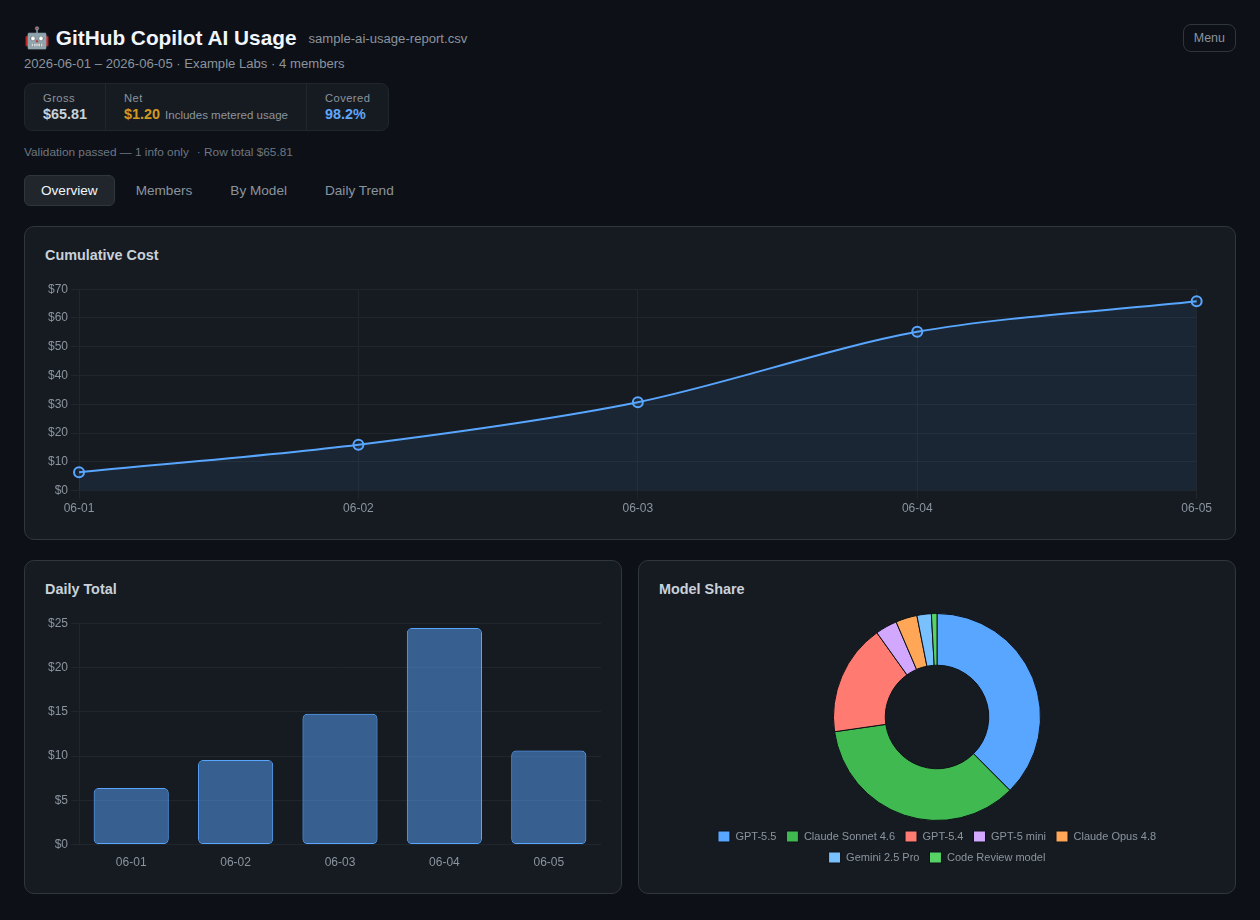
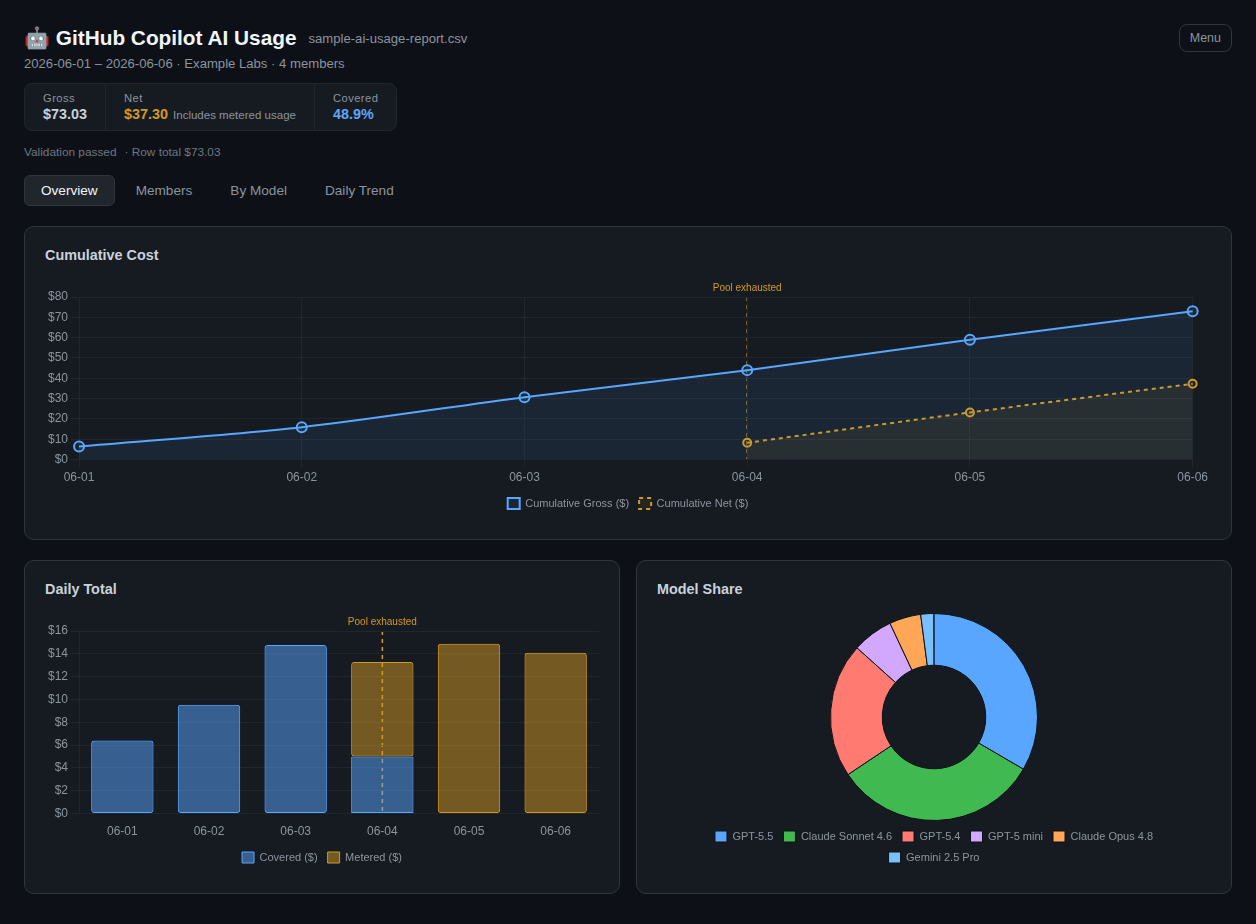
Update sample CSV with metered billing data and refresh README screenshot

diff --git a/tests/e2e/viewer.spec.js b/tests/e2e/viewer.spec.js
@@ -51,15 +51,9 @@ test('loads the sample CSV with actual consumption as the default view', async (
   await loadSampleViaUpload(page);
 
   await expect(page.locator('#subtitle')).toContainText('Example Labs');
-  await expect(page.locator('#costBadges .cost-stat').first()).toContainText('$65.81');
-  await expect(page.locator('#validationBanner')).toContainText(/Row total:? \$65\.81/);
+  await expect(page.locator('#costBadges .cost-stat').first()).toContainText('$73.03');
+  await expect(page.locator('#validationBanner')).toContainText(/Row total:? \$73\.03/);
   await expect(page.locator('#validationBanner .vb-ok')).toContainText('Validation passed');
-  await expect(page.locator('#validationBanner details.vb-ok-details')).toBeVisible();
-  await expect(page.locator('#validationBanner .vb-ok-body')).toBeHidden();
-
-  await page.locator('#validationBanner details.vb-ok-details summary').click();
-  await expect(page.locator('#validationBanner .vb-ok-body')).toBeVisible();
-  await expect(page.locator('#validationBanner .vb-ok-body')).toContainText('quantity=0 but aic_gross_amount>0');
 
   await page.locator('#menuBtn').click();
   await expect(page.locator('#headerMenu')).toBeVisible();
@@ -72,8 +66,8 @@ test('switches view basis and opens compare from the header menu', async ({ page
 
   await page.locator('#menuBtn').click();
   await page.locator('#modeCompatibleBtn').click();
-  await expect(page.locator('#costBadges .cost-stat').first()).toContainText('$40.41');
-  await expect(page.locator('#validationBanner')).toContainText(/Row total:? \$40\.41/);
+  await expect(page.locator('#costBadges .cost-stat').first()).toContainText('$72.08');
+  await expect(page.locator('#validationBanner')).toContainText(/Row total:? \$72\.08/);
 
   await page.locator('#menuBtn').click();
   await page.locator('#compareViewBtn').click();
@@ -82,10 +76,10 @@ test('switches view basis and opens compare from the header menu', async ({ page
   await expect(page.locator('#detailTabs')).toBeHidden();
   await page.locator('#menuBtn').click();
   await expect(page.locator('#modeSwitch')).toBeHidden();
-  await expect(page.locator('#compareSummary')).toContainText('$25.40');
-  await expect(page.locator('#compareSummary')).toContainText('2,540');
-  await expect(page.locator('#tableCompare')).toContainText('2026-06-04');
-  await expect(page.locator('#tableCompare')).toContainText('$24.45');
+  await expect(page.locator('#compareSummary')).toContainText('$0.95');
+  await expect(page.locator('#compareSummary')).toContainText('95');
+  await expect(page.locator('#tableCompare')).toContainText('2026-06-03');
+  await expect(page.locator('#tableCompare')).toContainText('$14.78');
 
   await page.locator('#compareViewBtn').click();
   await expect(page.locator('#overview.panel.active')).toBeVisible();
@@ -124,7 +118,7 @@ test('loads a CSV from the csv query parameter', async ({ page }) => {
   await expect(page.locator('#dashboard')).toBeVisible();
   await expect(page.locator('#members.panel.active')).toBeVisible();
   await expect(page.locator('#headerMeta')).toHaveText('sample-ai-usage-report.csv');
-  await expect(page.locator('#costBadges .cost-stat').first()).toContainText('$40.41');
+  await expect(page.locator('#costBadges .cost-stat').first()).toContainText('$72.08');
   await page.locator('#menuBtn').click();
   await expect(page.locator('#modeCompatibleBtn')).toHaveClass(/active/);
 });

diff --git a/README.md b/README.md
@@ -33,7 +33,7 @@ The resolved URL must be HTTP(S), and CSV files are limited to 10 MB.
 
 ## Views
 
-- **Overview** — cumulative spend, daily total, model share
+- **Overview** — cumulative spend, daily total, model share; metered billing overlay when applicable
 - **Members** — per-member bar chart and sortable detail table
 - **By Model** — stacked usage by member and model
 - **Daily Trend** — day-by-day usage for top members